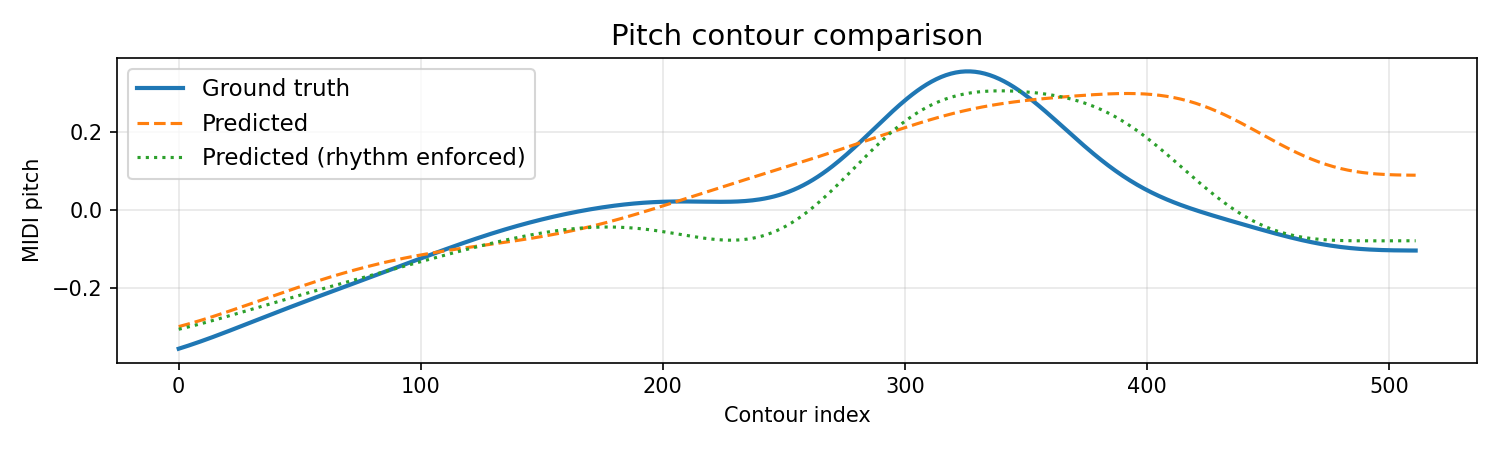
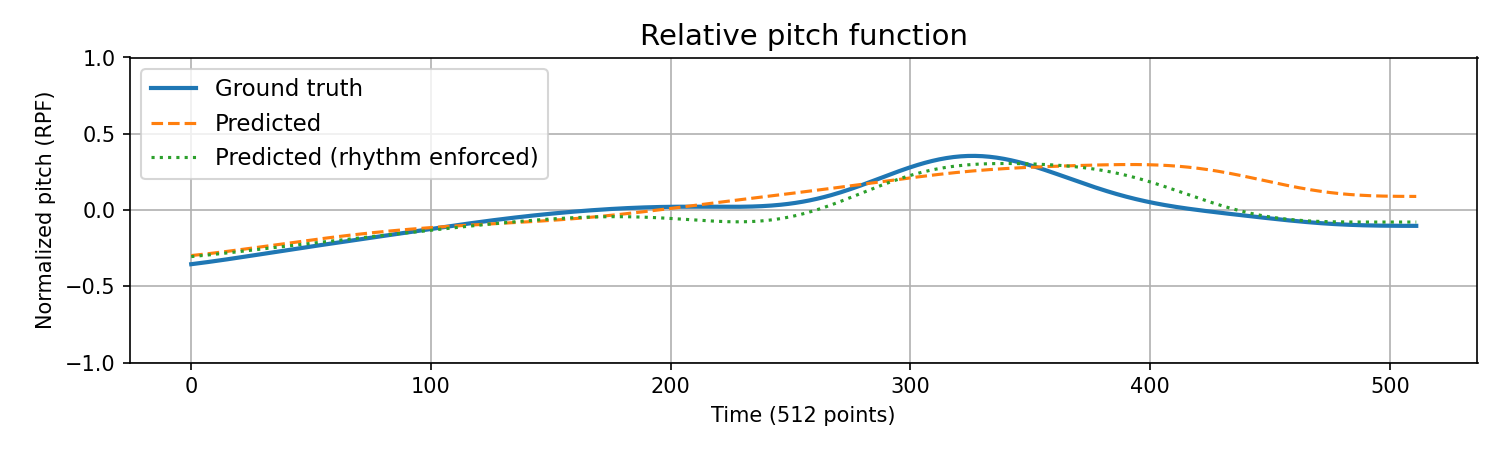
evaluation finished

diff --git a/exp1/evaluation.py b/exp1/evaluation.py
@@ -156,11 +156,9 @@ def extract_pitch_contour(tokens):
     onsets = []
     
     # Extract contours
-    last_pitch = None
     for i, tok in enumerate(tokens):
         if tok < 128:  # onset
             pitches.append(tok)
-            last_pitch = tok
             onsets.append(i)
     
     onsets = np.array(onsets, dtype=np.float32)
@@ -291,9 +289,26 @@ def estimate_key(pitch_classes):
 
     return best_tonic, best_mode, key_pcs
 
-def context_matching(tokens_pred, tokens_context):
+def context_matching(tokens_pred, context):
+    # Convert the context sequence to tokens
+    tokens_context = []
+    prev_pitch = None
+    for element in context:
+        if element is None or element == 0: # rest
+            tokens_context.append(129)
+            prev_pitch = None
+        elif prev_pitch is None or element != prev_pitch: # onset
+            tokens_context.append(int(element))
+            prev_pitch = int(element)
+        else: # hold
+            tokens_context.append(128)
+            prev_pitch = int(element)
+
+    #print(tokens_context)
+    #print(np.array(tokens_pred))
+
     # Extract the pitch classes from the notes
-    pitch_classes_pred = extract_pitch_classes(tokens_pred)
+    pitch_classes_pred = extract_pitch_classes(np.array(tokens_pred))
     pitch_classes_context = extract_pitch_classes(tokens_context)
     
     # Estimate key using Krumhansl algorithm
@@ -358,7 +373,7 @@ context_match_list = []
 
 #print(len(test_dataloader))
 
-num_eval = 1000 # change to 1000
+num_eval = 10 # change to 1000
 
 loader_iter = iter(test_dataloader)
 
@@ -406,8 +421,9 @@ with torch.no_grad():
         #print(tmidi_true_tokens)
         tmidi_pred_tokens = tmidi_pred[0].argmax(dim=-1).cpu().numpy()
         #print(tmidi_pred_tokens)
-        context_tokens = np.concatenate((bar11[0].int(), bar12[0].int())) # all bars from context sample
-        #print(context_tokens)
+
+        context = np.concatenate((bar11[0].int(), bar12[0].int())) # all bars from context sample
+        #print(context)
 
         # Pitch contour matching
         # Apply rhythm enforcement
@@ -422,24 +438,26 @@ with torch.no_grad():
         #print(tmidi_true_pitch)
 
         # Save the plot with the 3 frps
-        """
+        
         plt.figure(figsize=(10, 3))
 
         plt.plot(tmidi_true_pitch, label="Ground truth", linewidth=2)
         plt.plot(tmidi_pred_pitch, label="Predicted", linestyle="--")
         plt.plot(tmidi_pred_pitch_r, label="Predicted (rhythm enforced)", linestyle=":")
 
-        plt.title("Pitch contour comparison", fontsize=14)
-        plt.ylabel("MIDI pitch")
-        plt.xlabel("Contour index")
+        plt.title("Relative pitch function", fontsize=14)
+        plt.ylabel("Normalized pitch (RPF)")
+        plt.xlabel("Time (512 points)")
+
+        plt.ylim(-1, 1)
 
         plt.legend(fontsize=11)
-        plt.grid(True, alpha=0.3)
+        plt.grid(True)
         plt.tight_layout()
 
         plt.savefig(f"exp1/Midi_Eval/plot_{i}.png", dpi=150)
         plt.close()
-        """
+        
 
         # Compute DTW without rhythm enforcement
         pitch_cost = dtw.distance(tmidi_pred_pitch, tmidi_true_pitch)
@@ -464,25 +482,9 @@ with torch.no_grad():
         rhythm_match_list.append(rhythm_cost)
 
         # Context matching
-        percentage_in_key = context_matching(tmidi_pred_tokens, context_tokens)
+        percentage_in_key = context_matching(tmidi_pred_tokens, context)
         #print(percentage_in_key)
-        context_match_list.append(percentage_in_key)
-
-        # Save the results
-        #print("First sample")
-        #sample_1_score = converter.parse(str(sample_1[3][0])).measure(1)
-        #sample_1_score.write('midi', fp=f"Midi_Eval/sample_1_{i}.mid")
-        #sample_1_score.show()
-
-        #print("Second sample")
-        #sample_2_score = converter.parse(str(sample_2[3][0])).measure(2)
-        #sample_2_score.write('midi', fp=f"Midi_Eval/sample_2_{i}.mid")
-        #sample_2_score.show()
-
-        #print("Generated melody")
-        #generated_score = tmidi_to_score(tmidi_pred_tokens, hparams['seq_len'])
-        #generated_score.write('midi', fp=f"Midi_Eval/generated_score_{i}.mid")
-        #generated_score.show()                                                                                                                                                   
+        context_match_list.append(percentage_in_key)                                                                                                                                              
 
 # Replace these with your actual arrays
 pitch_match_list = np.array(pitch_match_list)
@@ -498,6 +500,7 @@ results = {
     'context': {'average': int(np.round(np.mean(context_match_list)))},
 }
 
+"""
 # Save results to a text file
 output_file = os.path.join('exp1', 'alignment_cost_22.txt')
 with open(output_file, 'w') as f:
@@ -511,3 +514,4 @@ with open(output_file, 'w') as f:
             f.write(f"  Std: {stats['std']:.4f}\n\n")
 
 print(f"Results saved to {output_file}")
+"""
